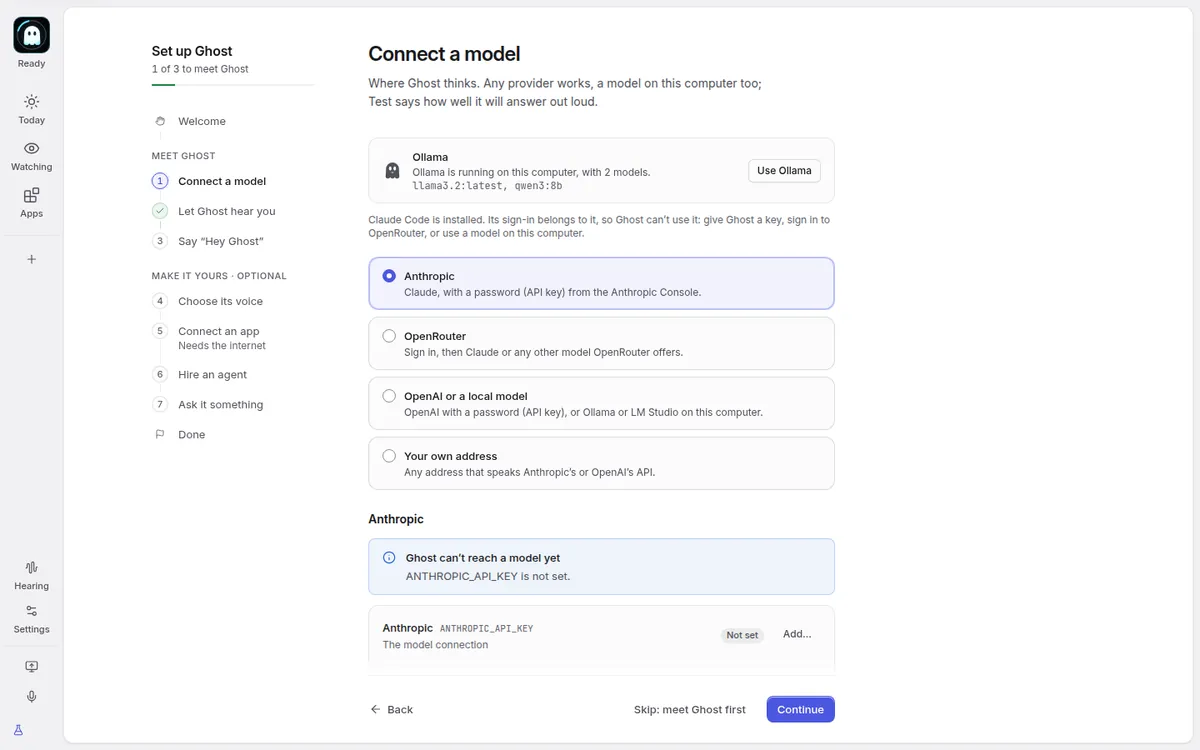
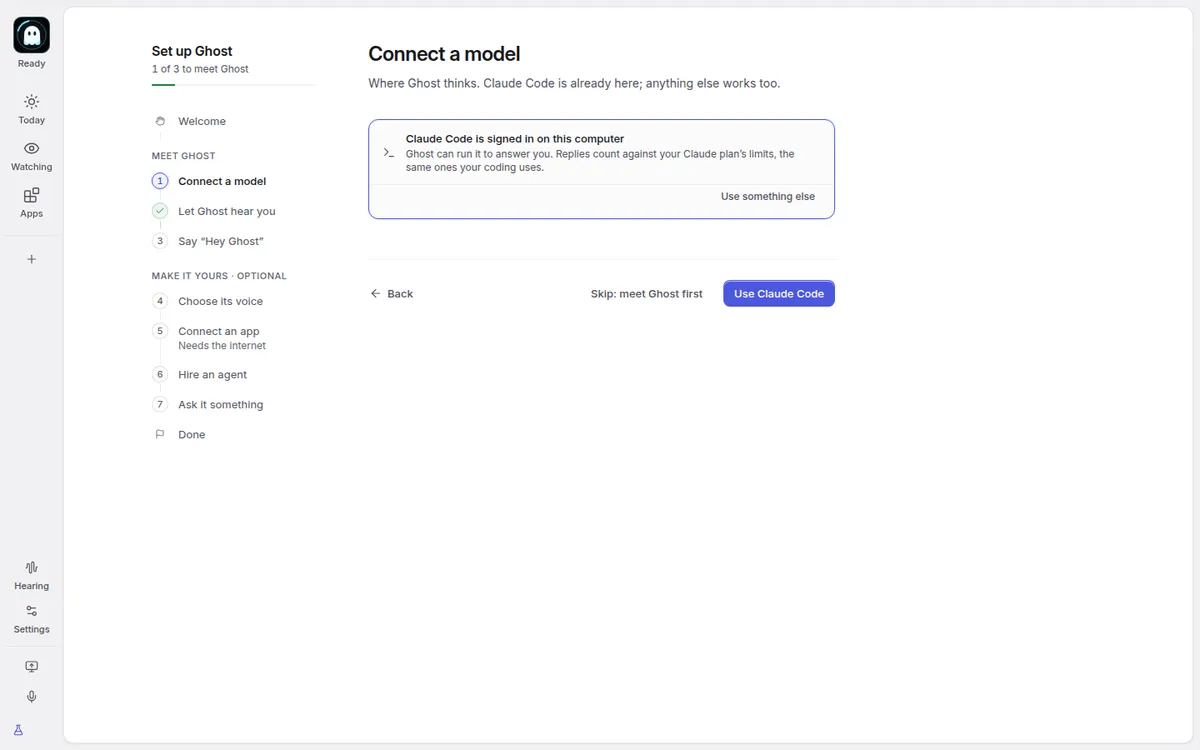
docs(first-run): Claude Code's count and the followed download; retake the pictures

diff --git a/docs/design-system.md b/docs/design-system.md
@@ -349,7 +349,7 @@ What it shows is `sceneOf()` (`src/floating/scene.ts`) of the posture rule and t
 
 `#/welcome`, `src/screens/onboarding`: from nothing to Ghost answering its name over the desktop, in every build (it was a dev-only prototype until 2026-11-12; reordered around that moment 2026-11-14). A rail of steps on the left in two parts, **Meet Ghost** and **Make it yours · optional**, the thread broken between them (one Tab stop, arrows move; under 960px a strip of numbered marks with the current step named), the speech models' download riding along at the rail's foot with its time left, and one step at a time on the right, its footer inline while the step fits and in the `Page` dock when it doesn't.
 
-- **Meet Ghost: three beats and nothing else before them.** Where Continue and Skip go is `routeAfter()` in `state.ts`: a model already ready passes its step; the model step's Skip reads “Skip: meet Ghost first”; a healthy microphone (`micHealthyOf`: ADR 0064's reading with no problem or fallback, listening on) or none at all passes Let Ghost hear you, which is shown only when it needs something. The measured path (`pathToMoment`, `requiredAt`, tested so a required action added before the moment fails): a model found, 3 clicks; a key to paste, 3 clicks and the key; nothing, 2 clicks.
+- **Meet Ghost: three beats and nothing else before them.** Where Continue and Skip go is `routeAfter()` in `state.ts`: a model already ready passes its step; the model step's Skip reads “Skip: meet Ghost first”; a healthy microphone (`micHealthyOf`: ADR 0064's reading with no problem or fallback, listening on) or none at all passes Let Ghost hear you, which is shown only when it needs something. The measured path (`pathToMoment`, `requiredAt`, tested so a required action added before the moment fails): Claude Code signed in (ADR 0069: Use Claude Code saves and goes on), 2 clicks; another model found, 3 clicks; a key to paste, 3 clicks and the key; nothing, 2 clicks. While the speech models download, the rail's foot and the beat say so, “already downloading” when another process started it (`fetch.following`).
 - **The moment** (the wake beat): the mark at 128 (`GhostChip`, the ring's arc lit, Wisp in the phase's mood, a wave when it is met, and one ring of its light going out once), the title, and under it the floating line with its switch (“Ghost floats over your work when you call it”; after the moment “Keep Ghost floating over your work”; where it can't float, the shell's own sentence and “Ghost answers here in this window instead”; while the screen is shared, that this time it answers here), the microphone in one line with Change, the echo canceller offered in one line when nothing takes Ghost's voice out (`case` unprotected), the wake-takes and error-reports sentences at their weight, then Type instead and Wake it with a click as quiet buttons. The beat arms Ghost's first line (`PUT /first-meeting`) and the floating room (`setFirstMeeting`); the first desk session that opens is the meeting: “Ghost is over your desktop” while it talks (no Skip), then “You’ve met Ghost · It came forward over your desktop at 3:04 PM and answered out loud.” with Make it yours, or with no model “Ghost needs a model to think” with Give it a model (back to the model step, then on to Ask it something). Where it can't float the window holds its room view for the session; where it floats the window holds the desk under it, so the beat can say what happened. With the ears downloading: “Ghost’s ears are on their way”, the share and the time left, and Make it yours meanwhile, which comes back to the beat by itself once they are here (unless a dialog is open). No microphone: “Type to meet Ghost” and a field. Listening off: Turn listening on, or type.
 - **Seven tasks**, each done only when Ghost says so (`progressOf()` in `state.ts`, tested): **Connect a model** (Settings › Model's own `ModelSection` on a draft of its own: any provider, its key in the vault, Test on the draft before anything is saved; the check reads as one verdict, below), **Let Ghost hear you** (where the voice goes, drawn as four stops on one wire, each lit once true: the microphone, its own voice taken out, listening for its name on this computer, the model only after its name; then echo cancellation, the microphone and the speech models), **Say “Hey Ghost”** (the hero; done only on a wake heard by voice, never a click; after 12 s of nothing, a numbered ladder of what to try, each rung with its own fix, from what is true now: listening off, the microphone, a looser match, the other phrase, the Hearing test), **Choose its voice** (on this computer, or a realtime voice whose disclosure is shown here and which is turned on only in Settings › Sound, ADR 0063; Ghost's own voice with a sample), **Connect an app** (the catalog's first entries, search, Connect… opens Apps' own `ConnectDialog`, or Add your own by address or command), **Hire an agent** (the family of shapes, then Apps' and the roster's `NewAgentDialog`; the one hired shown large in its shape and colour), **Ask it something** (say it or type it; the question and Ghost's answer shown as the conversation screen ranks them, Ghost's words brightest).
 - **Skippable and resumable**: every task has Skip for now; what was skipped, how Ghost woke and whether it answered are kept in localStorage (`ghost.welcome.v4`), and the step is in the address (`?step=wake`). The Done step lists every task with its state and a Set up button for each one still open.
